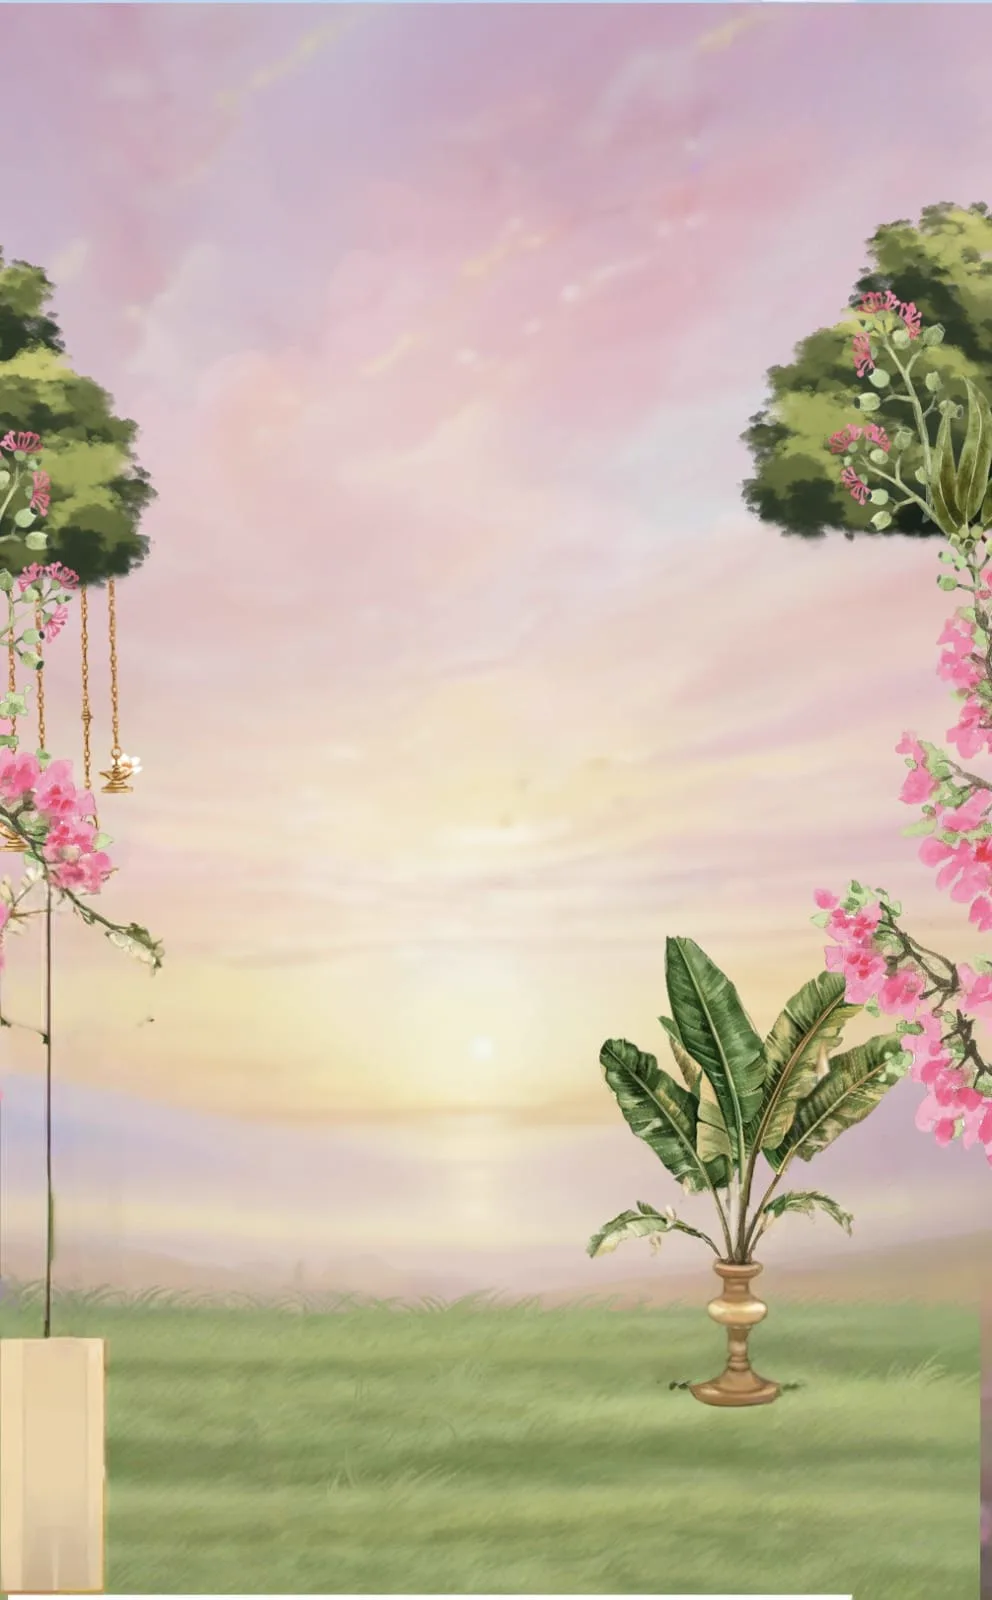
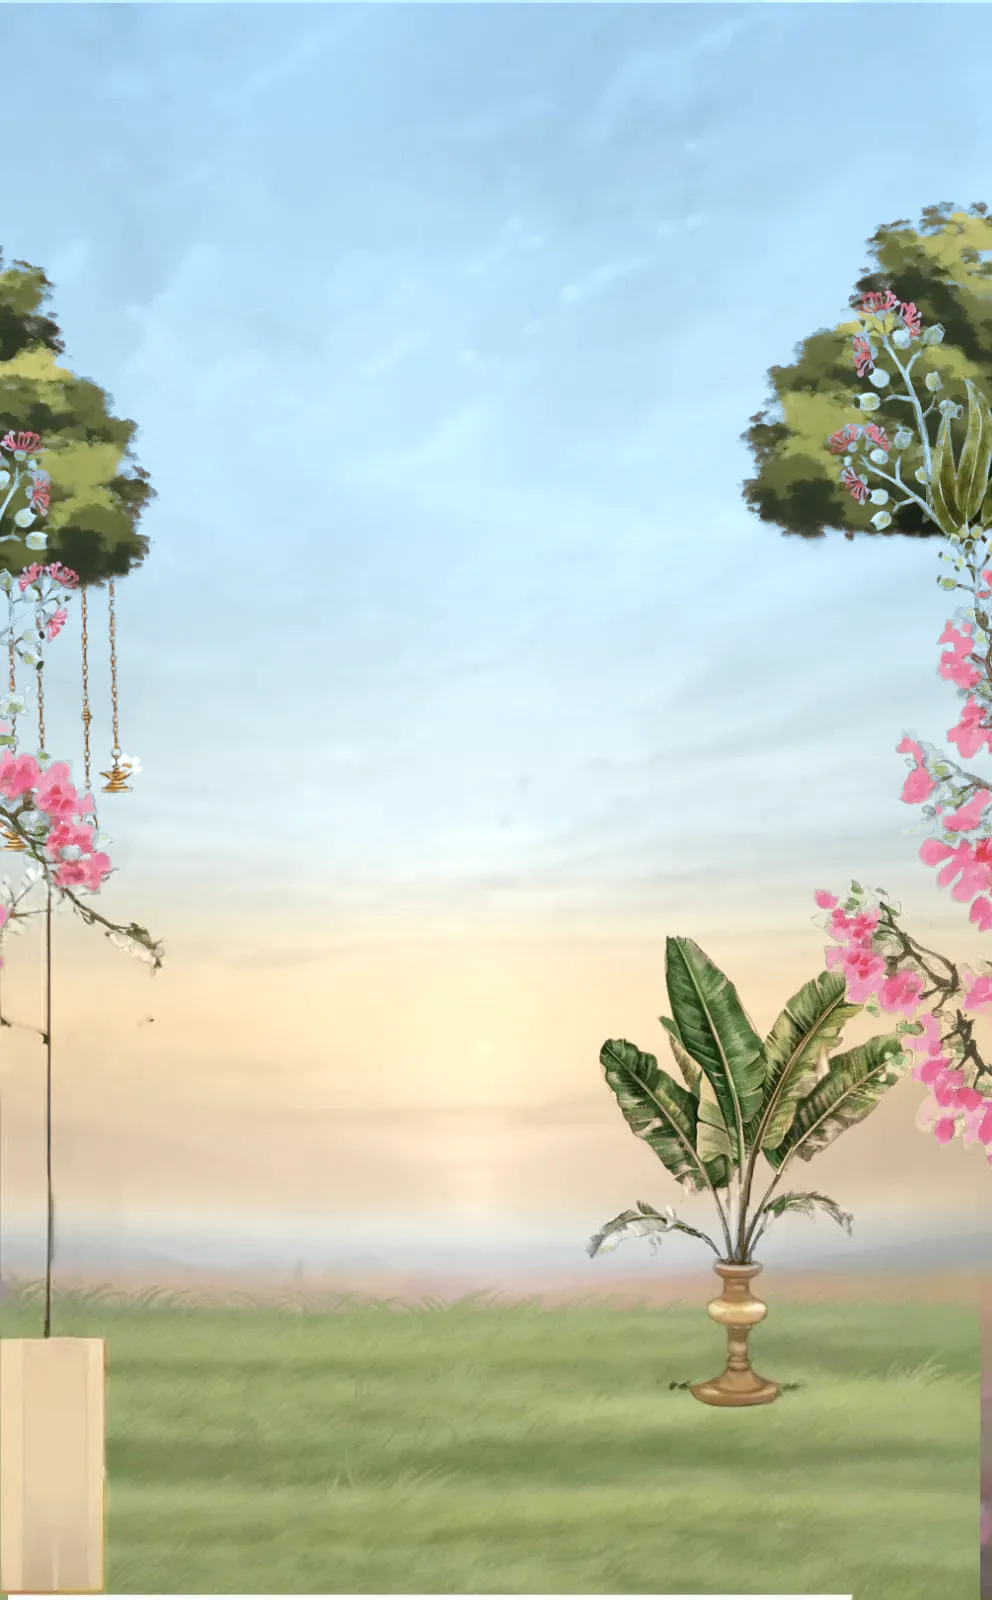
KomalWedsPrem: Haldi sign, early-morning wedding sky, maroon cocktail drapes

diff --git a/src/templates/sageenvelope/SageEnvelope.jsx b/src/templates/sageenvelope/SageEnvelope.jsx
@@ -346,13 +346,14 @@ export default function SageEnvelope({ invite, viaGate }) {
             <Line id="hi" fallback={invite.inviteLine ?? ''} className="se-hero__line se-t" style={rise(4)} />
             <h1>
               <Line id="hgr" as="span" fallback={b} className="se-t" style={rise(5)} />
-              <Line id="hw" as="small" fallback="WITH" className="se-t" style={rise(6)} />
-              <Line id="hbr" as="span" fallback={a} className="se-t" style={rise(7)} />
+              <Line id="hs" as="span" fallback={invite.groomLine ?? ''} className="se-hero__strong se-t" style={rise(6)} />
+              <Line id="hw" as="small" fallback="WITH" className="se-t" style={rise(7)} />
+              <Line id="hbr" as="span" fallback={a} className="se-t" style={rise(8)} />
             </h1>
-            <Line id="hd" fallback={invite.brideLine ?? ''} className="se-hero__strong se-t" style={rise(8)} />
-            <Line id="hr" fallback={invite.dateRange || invite.dateLabel} className="se-hero__strong se-t" style={rise(9)} />
-            <Line id="ha" fallback="at" className="se-hero__strong se-hero__at se-t" style={rise(10)} />
-            <Line id="hv" fallback={invite.venue} className="se-hero__strong se-hero__venue se-t" style={rise(11)} />
+            <Line id="hd" fallback={invite.brideLine ?? ''} className="se-hero__strong se-t" style={rise(9)} />
+            <Line id="hr" fallback={invite.dateRange || invite.dateLabel} className="se-hero__strong se-t" style={rise(10)} />
+            <Line id="ha" fallback="at" className="se-hero__strong se-hero__at se-t" style={rise(11)} />
+            <Line id="hv" fallback={invite.venue} className="se-hero__strong se-hero__venue se-t" style={rise(12)} />
           </div>
           <div className="se-dancers">
             {DANCERS.map((p) => <Img key={p.img} p={p} />)}

diff --git a/tests/studio/inline.test.js b/tests/studio/inline.test.js
@@ -175,8 +175,8 @@ test('a smaller text size never goes below the 12px readable floor', () => {
 test("the share check warns about this design's own sample details, not the form's", () => {
   const edited = { ca: 'A', cb: 'B', date: '2027-03-01', time: '18:00', venue: 'V' }
   const ids = staleBuckets(edited, 'contemporary', 'sageenvelope').map((b) => b.id)
-  for (const id of ['address', 'blessed', 'hosts', 'brideline', 'dates', 'events', 'families']) assert.ok(ids.includes(id), id)
-  for (const id of ['names', 'day', 'venue', 'story', 'places']) assert.ok(!ids.includes(id), id)
+  for (const id of ['address', 'dates', 'events', 'families']) assert.ok(ids.includes(id), id)
+  for (const id of ['names', 'day', 'venue', 'story', 'places', 'blessed', 'hosts', 'brideline']) assert.ok(!ids.includes(id), id)
   assert.ok(!staleBuckets({ ...edited, 't-va': 'X' }, 'contemporary', 'sageenvelope').some((b) => b.id === 'address'))
   assert.ok(staleBuckets({}, 'contemporary').some((b) => b.id === 'story')) // other designs keep the form's list
 })

diff --git a/src/data/samples/sageenvelope.js b/src/data/samples/sageenvelope.js
@@ -18,10 +18,12 @@ export const sageEnvelopeSample = {
 
   // The hero's formal invitation, top to bottom. All family names are placeholders.
   invocation: { text: 'Shri Chintamani Parshvanathaya Namah', script: null, meaning: '' },
-  blessings: 'Smt. Kamla Devi & Shri. Mohan Lal Sharma',
-  hosts: 'Mrs. Sunita & Mr. Rajesh Sharma',
+  // No "With the blessings Of" block or hosts line: no `blessings`, and `hosts` is '' so the base sample's doesn't show.
+  hosts: '',
   inviteLine: 'Cordially invite you to attend the\nWedding of their son', // \n: the line breaks there, as in the original
-  brideLine: 'Daughter of Smt. Meena & Shri Anil Verma',
+  // Real, not placeholders: each family line sits under that name.
+  groomLine: 'Grand Son of Late Smt. Pravinaben Shamlalji Siyakiya\n&\nSon of Smt. Nirmala Pramodji Siyakiya (Oswal)',
+  brideLine: 'Grand Daughter of Late Smt. Otibai Shantilalji Nanesha\n&\nDaughter of Smt. Lata Bhanwarlalji Nanesha (Oswal)',
   dateRange: '11th to 14th February 2027',
 
   events: [

diff --git a/src/studio/fields.js b/src/studio/fields.js
@@ -44,9 +44,6 @@ export const DESIGN_BUCKETS = {
     { id: 'day', group: 'day', label: 'Date and time', keys: ['date', 'time'] },
     { id: 'venue', group: 'venue', label: 'Venue', keys: ['venue'] },
     { id: 'address', group: 'venue', label: 'Address (the map and directions use it)', keys: ['t-va'] },
-    { id: 'blessed', group: 'hosts', label: 'Blessed by', keys: ['t-hg'] },
-    { id: 'hosts', group: 'hosts', label: 'Hosts', keys: ['hosts'] },
-    { id: 'brideline', group: 'hosts', label: 'Bride’s family line', keys: ['t-hd'] },
     { id: 'dates', group: 'day', label: 'Dates under the names', keys: ['t-hr'] },
     { id: 'events', group: 'events', label: 'Event dates and places', keys: EV.flatMap((i) => [`t-e${i}d`, `t-e${i}p`]) },
     { id: 'families', group: 'hosts', label: 'Family names', keys: ['t-f0n', 't-f1n'] },

diff --git a/src/data/templates.js b/src/data/templates.js
@@ -86,7 +86,7 @@ const contemporary = [
     Component: lazy(() => import('../templates/velvetseal/VelvetSeal.jsx')),
   },
   {
-    id: 'sageenvelope', name: 'Sage Envelope', group: 'Romantic', editable: true, editor: 'inline', // edited line by line on the page
+    id: 'sageenvelope', name: 'KomalWedsPrem', group: 'Romantic', editable: true, editor: 'inline', // edited line by line on the page
     blurb: 'A painted sage envelope, then a watercolour wedding day, one scene per event.',
     signature: 'Tap the seal; scratch the orange card for the date, then scroll through five themed events.',
     palette: ['#fdfcf9', '#3e3935', '#b79b40'], font: "'Great Vibes', cursive", shape: 'rect', // page ground, ink, gold

diff --git a/src/templates/sageenvelope/sageenvelope.css b/src/templates/sageenvelope/sageenvelope.css
@@ -80,7 +80,7 @@
 .tpl-sageenvelope .se-hero__hosts { margin-bottom: 8px; font: 600 13px/19.5px var(--serif); }
 .tpl-sageenvelope .se-hero__line { margin-bottom: 12px; font: 400 13px/15.5px var(--serif); letter-spacing: 0.025em; white-space: pre-line; }
 .tpl-sageenvelope .se-hero h1 { display: grid; font-weight: 400; }
-.tpl-sageenvelope .se-hero h1 > span {
+.tpl-sageenvelope .se-hero h1 > span:not(.se-hero__strong) { /* the names; the groom's family line keeps __strong */
   font: 400 24px/32px var(--script);
   color: #b3385a;
   filter: drop-shadow(0 10px 8px rgb(0 0 0 / 0.04)) drop-shadow(0 4px 3px rgb(0 0 0 / 0.1));

diff --git a/src/templates/sageenvelope/lines.js b/src/templates/sageenvelope/lines.js
@@ -41,6 +41,7 @@ export const LINES = [
   bound('hh', 'hero', 'Hosts', ['hosts']),
   text('hi', 'hero', 'Invitation line', 120, 'lines'),
   bound('hgr', 'hero', 'Groom’s name', ['cb']),
+  text('hs', 'hero', 'Groom’s family line', 160, 'lines'),
   text('hw', 'hero', 'Word between the names', 20),
   bound('hbr', 'hero', 'Bride’s name', ['ca']),
   text('hd', 'hero', 'Bride’s family line', 160, 'lines'),

diff --git a/docs/original-assets-audit.md b/docs/original-assets-audit.md
@@ -35,7 +35,7 @@ Source URL for each: `https://kabir-weds-diksha.site/assets/<original file>`.
 | `dancer7.webp` | `dancer7-CxqnVLnh.png` | 330x529 | 240x385 | Hero: dancer |
 | `dancer8.webp` | `dancer8-DLrAVB_Q.png` | 257x605 | 240x565 | Hero: dancer |
 | `couple.webp` | `couple-BgrKK4o8.png` | 464x538 | 464x538 | Welcome: the couple |
-| `mehendi-bg.webp` | `bg-m-mehndi-iO-YGkmA.PNG` | 1786x3221 | 1000x1803 | Mehendi: backdrop |
+| `mehendi-bg.webp` | `bg-m-mehndi-iO-YGkmA.PNG` | 1786x3221 | 1000x1803 | Mehendi: backdrop (its sign repainted to read "Haldi", in Great Vibes) |
 | `umbrella1.webp` | `umbrella1-BdeDwzVj.png` | 579x311 | 320x172 | Mehendi: umbrella (x2) |
 | `umbrella2.webp` | `umbrella2-CnwT3ZHh.png` | 609x341 | 320x179 | Mehendi: umbrella (x2) |
 | `mehendi-cart.webp` | `gadi-CtWIaOjT.png` | 1139x1437 | 640x807 | Mehendi: flower cart |
@@ -45,7 +45,7 @@ Source URL for each: `https://kabir-weds-diksha.site/assets/<original file>`.
 | `disco.webp` | `disco1-BETnkKjM.png` | 400x399 | 240x239 | Sangeet (x4), Reception (x2): disco ball |
 | `lamp.webp` | `lamp-B6S3oSZG.png` | 286x1046 | 140x512 | Sangeet: lamp (x2) |
 | `side-disco.webp` | `side_disco-DgWJgi4b.png` | 980x881 | 380x342 | Sangeet: disco stand |
-| `wedding-bg.webp` | `bg-m-wedding2-DwIcryQB.jpeg` | 992x1600 | 992x1600 | Wedding: backdrop |
+| `wedding-bg.webp` | `bg-m-wedding2-DwIcryQB.jpeg` | 992x1600 | 992x1600 | Wedding: backdrop (sky regraded from dusk pink to an early-morning blue with a gold sunrise) |
 | `wedding-garland.webp` | `sidemala2-DDLEBbLq.png` | 1054x860 | 400x326 | Wedding: hanging bells (x2) |
 | `wedding-sidevase.webp` | `sidevase-DkdV7-Qs.png` | 1406x786 | 1000x559 | Wedding: plant and side table |
 | `wedding-vase-tall.webp` | `flowervase2-tGMi9Ik3.png` | 334x1479 | 280x1240 | Wedding: tall urn |
@@ -61,7 +61,7 @@ Source URL for each: `https://kabir-weds-diksha.site/assets/<original file>`.
 | `cocktail-bg.webp` | `bg-m-cocktail2-BJsTzgZz.jpeg` | 936x1600 | 936x1600 | Cocktail: backdrop |
 | `cocktail-trail-left.webp` | `silvertrail1-B1bK_LgN.png` | 1524x1007 | 400x264 | Cocktail: crystal strands, left |
 | `cocktail-trail-right.webp` | `silvertrail2-C_iqAopH.png` | 1801x709 | 400x157 | Cocktail: crystal strands, right |
-| `cocktail-drapes.webp` | `purpledesign-CN28xBz5.png` | 1987x665 | 1000x335 | Cocktail: drapes |
+| `cocktail-drapes.webp` | `purpledesign-CN28xBz5.png` | 1987x665 | 1000x335 | Cocktail: drapes (recoloured from purple to the carpet's maroon) |
 | `cocktail-balls.webp` | `cocktail_balls-Cx1Ccqje.png` | 1946x520 | 1000x267 | Cocktail: mirror balls |
 | `cocktail-arch-small.webp` | `cocktail_bitmap2-BQgAJTrz.png` | 256x608 | 140x333 | Cocktail: light arch, small |
 | `cocktail-arch.webp` | `cocktail_bitmap-BIJU7WZh.png` | 256x1037 | 140x567 | Cocktail: light arch |

diff --git a/README.md b/README.md
@@ -71,9 +71,9 @@ Free features that competitors usually put behind a paid plan, none of which nee
 - To make the next design editable, work through the checklist in `docs/superpowers/specs/2026-10-15-invitation-studio-design.md` section 12, run `node scripts/qa-studio.mjs --only=edit-live,proof --design=<id>`, and set `editable: true` in the same commit.
 - Checks: `npm test` (pure functions, `node --test`), and with `npm run preview` running, `npm run qa:studio` (browser areas: edit-live, share, hostile, storage, gallery, mobile, focus, proof; use `--only=` and `--design=`).
 
-### Editing on the invitation itself (Sage Envelope)
+### Editing on the invitation itself (KomalWedsPrem)
 
-Sage Envelope (`editor: 'inline'` in `src/data/templates.js`) is edited on the page, not in a form. In `#/studio/sageenvelope` you tap any line of the invitation and type over it; handles on the selected line change its box width and text size. The panel beside it (a sheet on a phone) holds the same line's words, size, width, space above, alignment, colour and font. With nothing selected, the panel orders and hides whole sections (the envelope is always first) and holds the details several lines share: names, wedding date and time, venue, map link and address. Undo and Redo cover every change, and Preview hides the editing outlines.
+KomalWedsPrem (`editor: 'inline'` in `src/data/templates.js`) is edited on the page, not in a form. In `#/studio/sageenvelope` you tap any line of the invitation and type over it; handles on the selected line change its box width and text size. The panel beside it (a sheet on a phone) holds the same line's words, size, width, space above, alignment, colour and font. With nothing selected, the panel orders and hides whole sections (the envelope is always first) and holds the details several lines share: names, wedding date and time, venue, map link and address. Undo and Redo cover every change, and Preview hides the editing outlines.
 
 - Every line is listed once in `src/templates/sageenvelope/lines.js`. Each line's words (`t-<line>`), look (`y-<line>`), each event's date and time, and the section order (`o`) are fields of the design's own scope in the field table. So they are cleaned, saved on the device, carried in the share link and checked like every other field. Never rename a line id: links already sent use it.
 - Line text can include `{bride}`, `{groom}` and `{venue}`, which are filled in from the couple's details.
